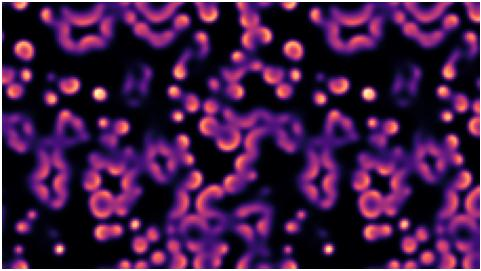
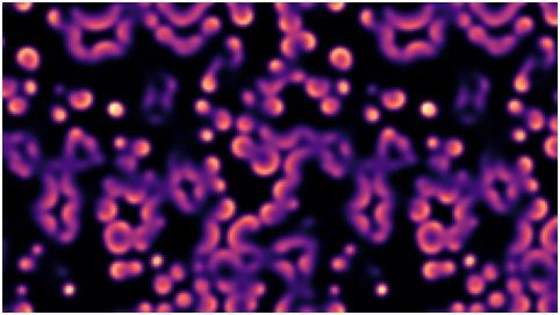
Uniform 16:9 card thumbnails

diff --git a/demo/build_showcase.py b/demo/build_showcase.py
@@ -334,8 +334,16 @@ def clean_thumbs():
     import matplotlib.pyplot as plt
 
     def save(fig, case):
-        fig.savefig(OUT / case / "thumb.jpg", dpi=110, facecolor="white", bbox_inches="tight", pad_inches=0.02)
+        from PIL import Image
+        path = OUT / case / "thumb.jpg"
+        fig.savefig(path, dpi=110, facecolor="white", bbox_inches="tight", pad_inches=0.02)
         plt.close(fig)
+        im = Image.open(path).convert("RGB")             # pad to a uniform 16:9 card image
+        w, h = im.size
+        W, H = max(w, int(round(h * 16 / 9))), max(h, int(round(w * 9 / 16)))
+        canvas = Image.new("RGB", (W, H), "white")
+        canvas.paste(im, ((W - w) // 2, (H - h) // 2))
+        canvas.resize((560, 315)).save(path, quality=90)
 
     def earth(ax):
         u_, v_ = np.mgrid[0:2 * np.pi:60j, 0:np.pi:30j]
